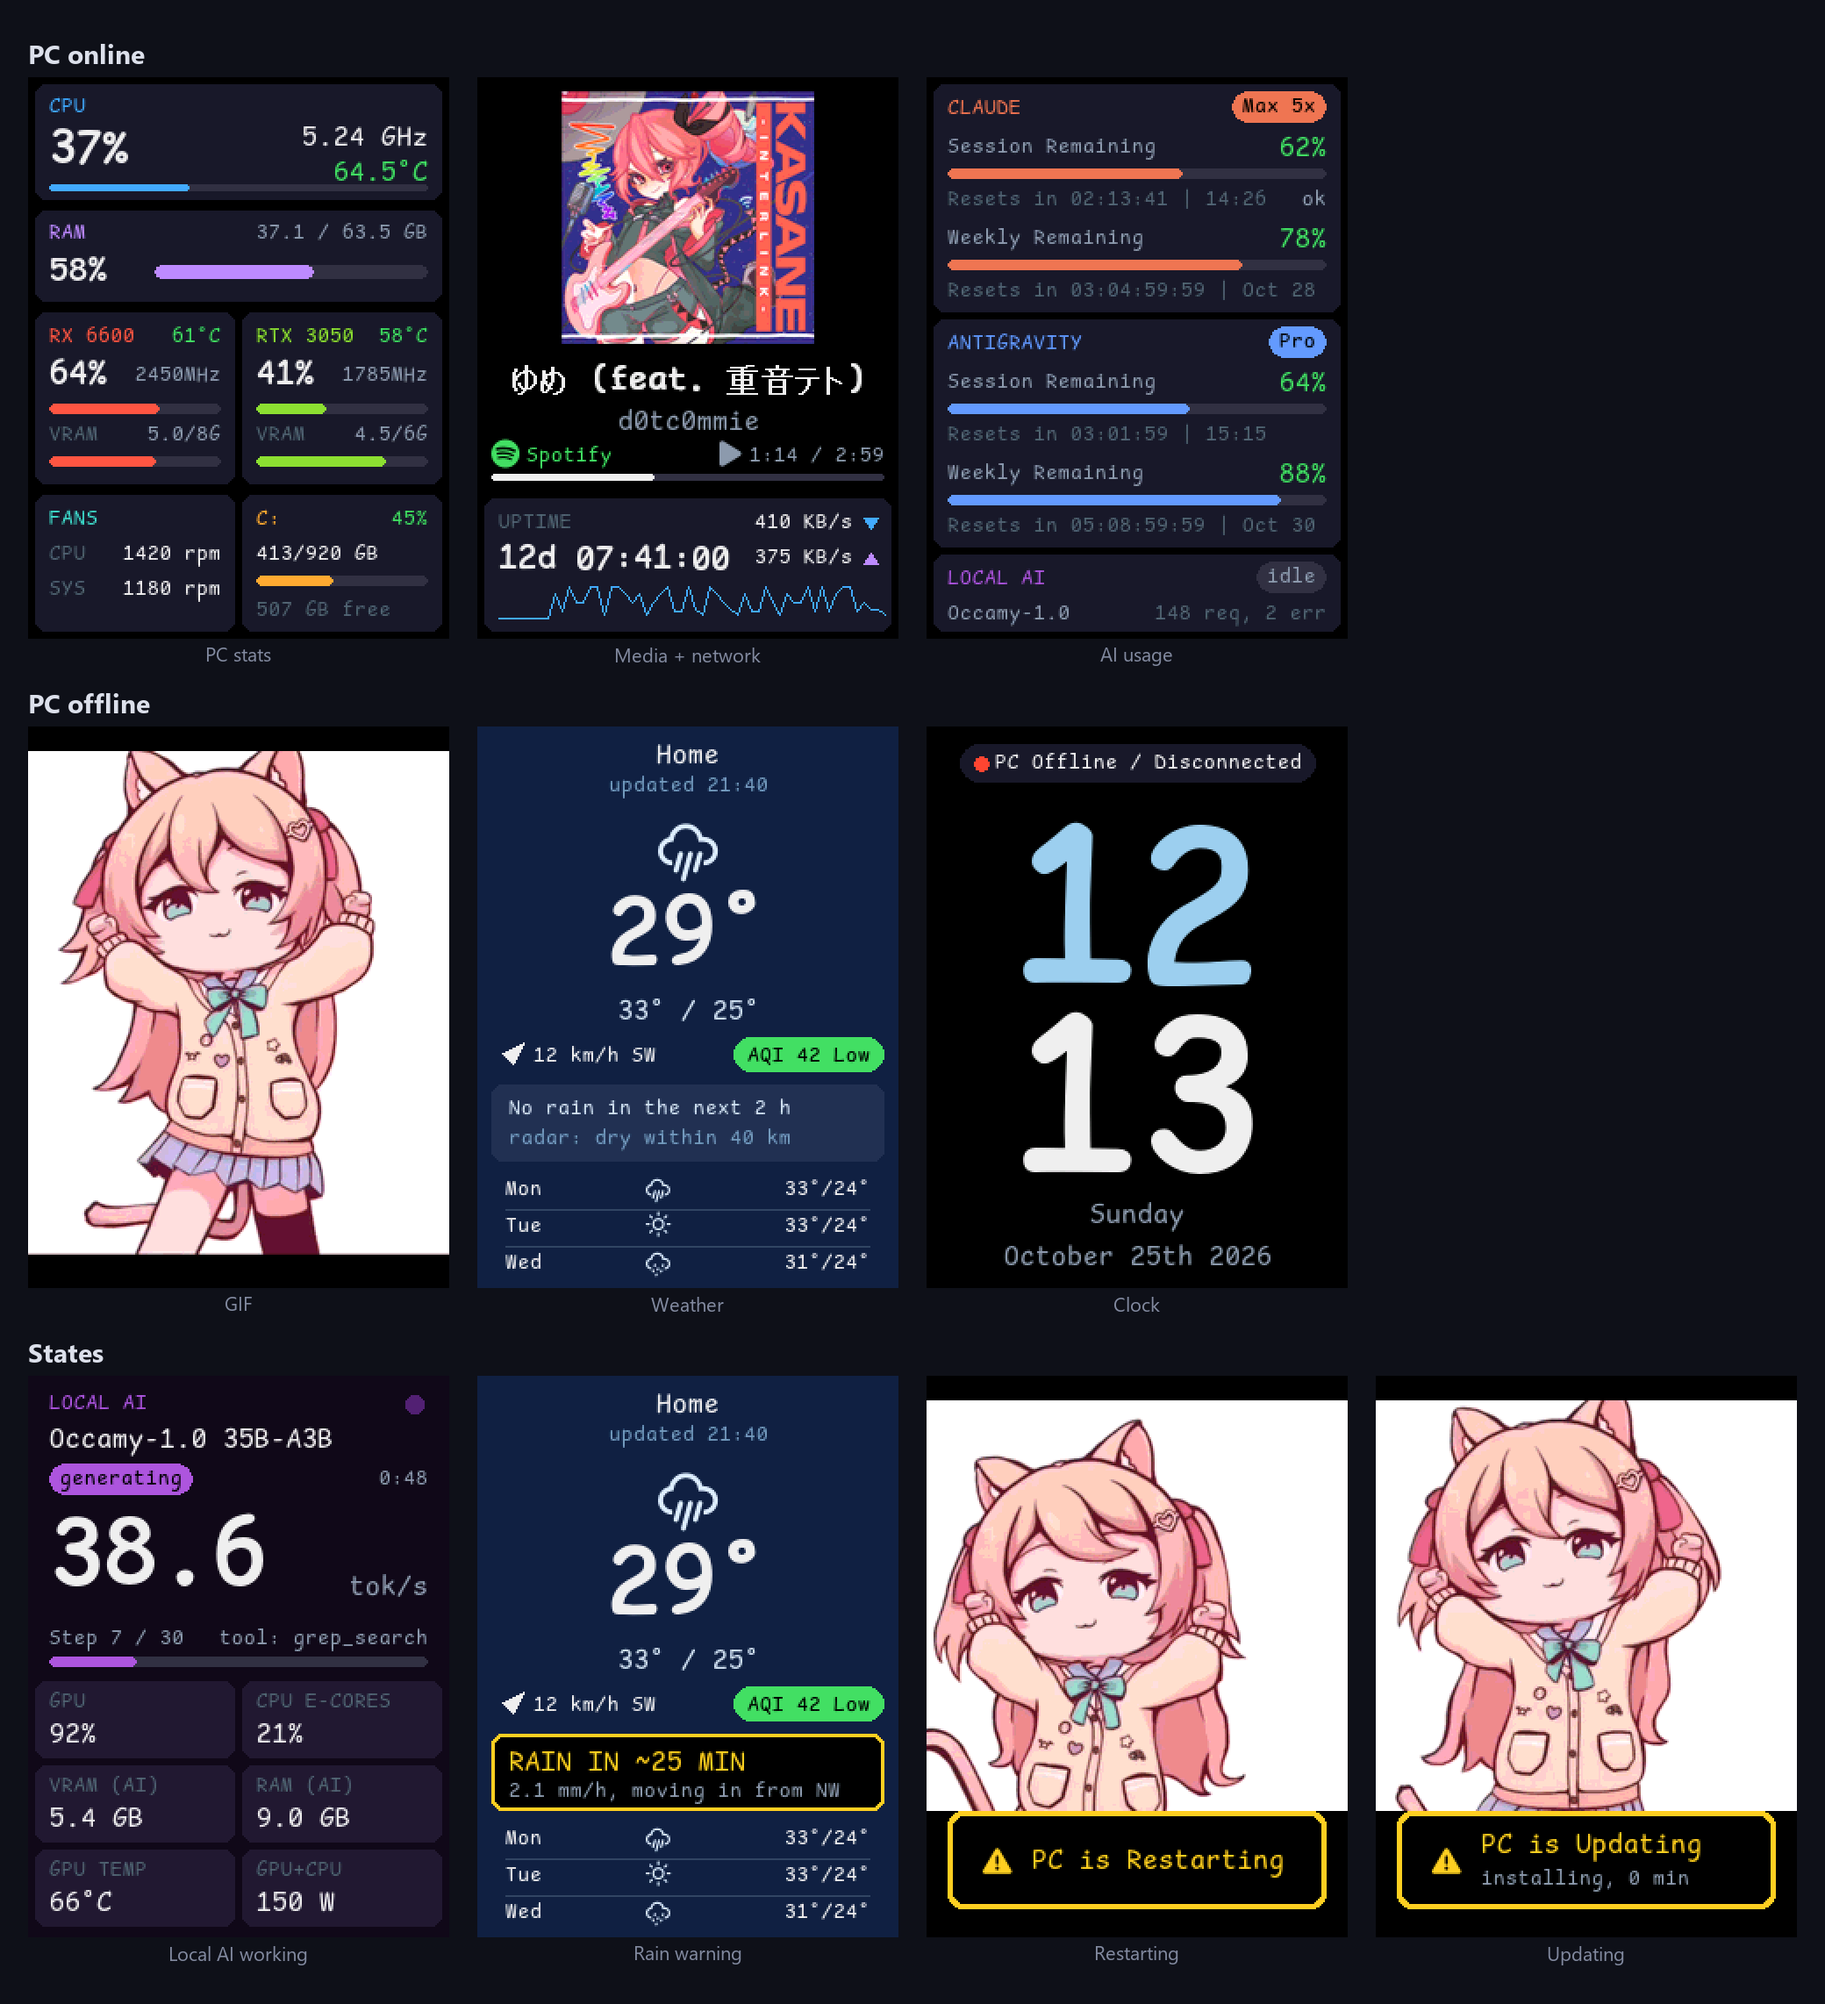
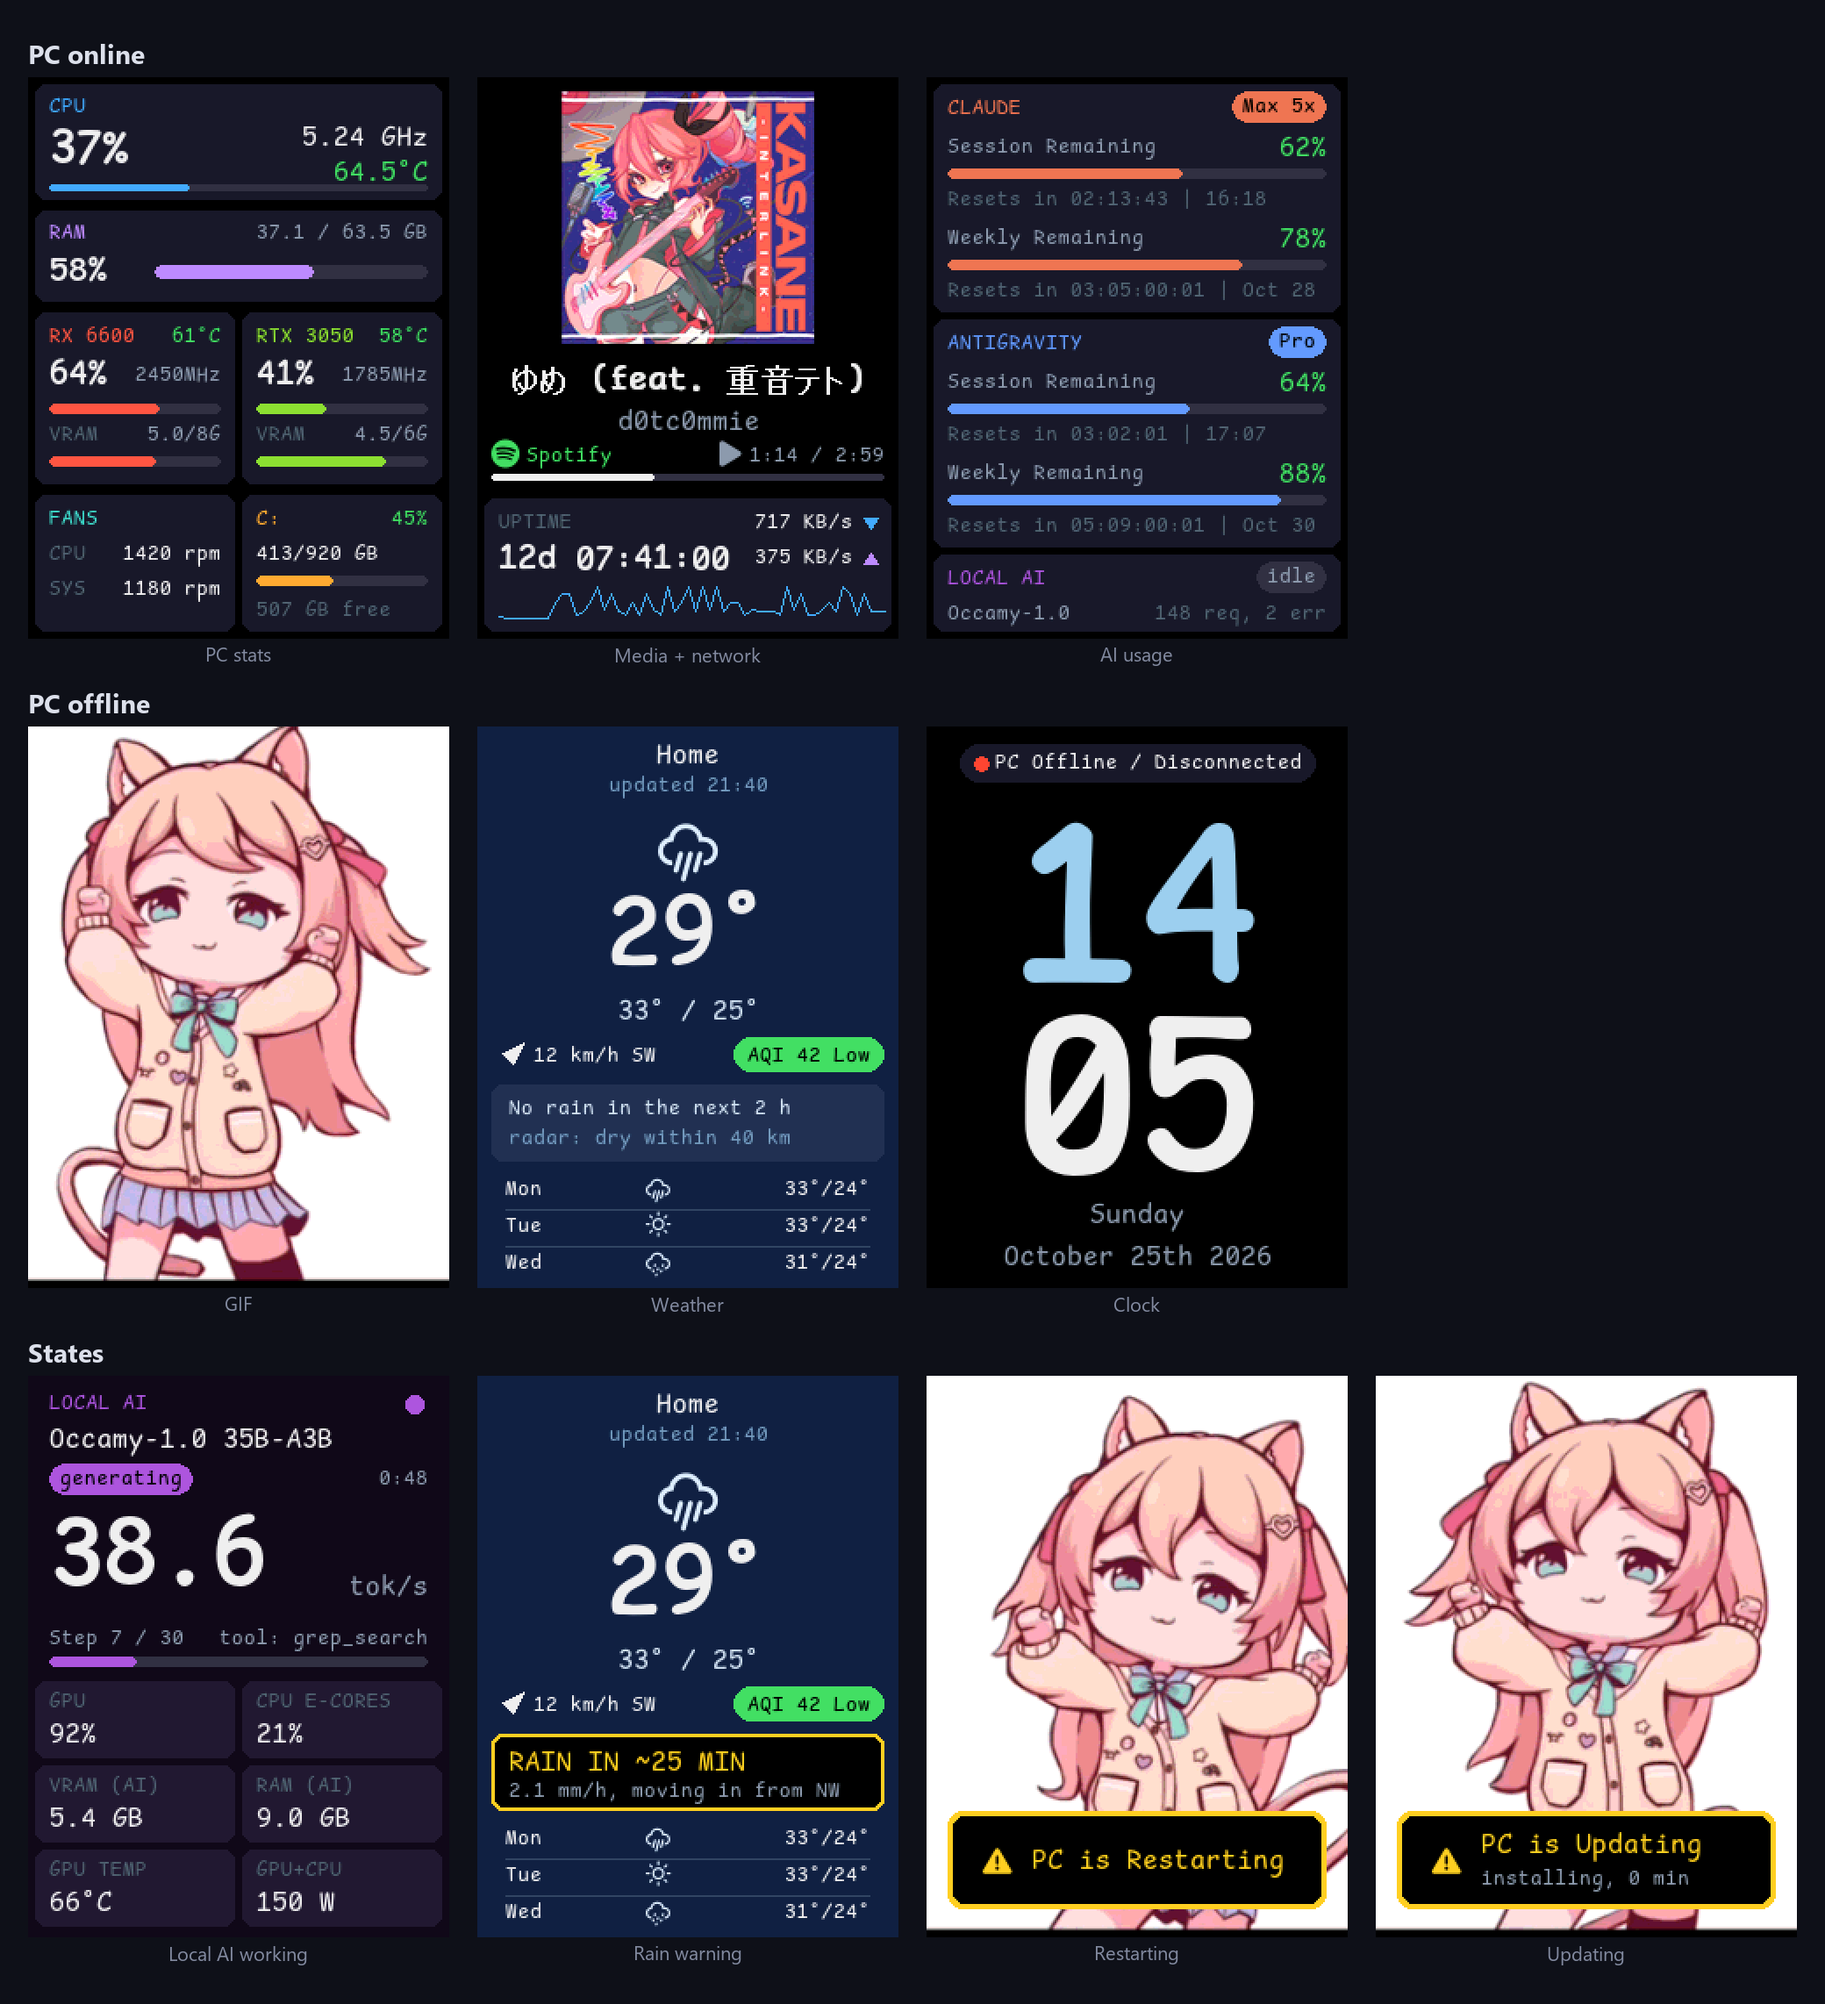
docs: recapture screens (full-height GIF, overlay box, no pace marker); LED table and pcsim in README
Assisted by Claude Code

diff --git a/README.md b/README.md
@@ -39,7 +39,7 @@ Each panel shows a set of faces and picks one from the PC's state:
 
 | Panel | PC on | PC off / asleep | Restarting / updating |
 |---|---|---|---|
-| 1 | PC stats: CPU, RAM, both GPUs, fans, C: | GIF | GIF with a "PC is Restarting" / "PC is Updating" box |
+| 1 | PC stats: CPU, RAM, both GPUs, fans, C: | GIF, scaled to fill the screen height | GIF with a "PC is Restarting" / "PC is Updating" box on top |
 | 2 | Media: cover art, title, artist, player, progress; uptime and network | Weather: now, AQI, 2-hour rain nowcast, 3-day forecast | Weather |
 | 3 | AI usage: Claude and Antigravity quota left, local AI; full-screen local AI face while the model is working | Clock | Clock with the restart/update state |
 
@@ -213,9 +213,15 @@ Other behaviour:
   against the brief USB dropout at power-on. The backlights are meant to
   turn off when the PC sleeps or shuts down (not yet tested on
   `carrier_idf`).
-- **Status LED** (GPIO2, PWM): solid = PC on, slow blink = asleep/off,
-  short blip every 2 s = no USB host yet. `led <0-100>` is perceptual
-  brightness, capped at 35% duty.
+- **Status LED** (GPIO2, PWM). `led <0-100>` is perceptual brightness,
+  capped at 35% duty.
+
+  | LED | Means |
+  |---|---|
+  | Quick pulses, 100 ms | Loading: the board is booting, or the PC is on but its stats have not arrived yet |
+  | Solid | Board and PC online |
+  | Quick pulses, 200 ms | PC restarting or updating |
+  | Slow breathing (3 s fade in and out) | PC asleep or off |
 
 ### Commands
 
@@ -227,6 +233,7 @@ One per line on the USB CDC console or the CH343 UART:
 | `view <1\|2\|3> <pc\|media\|ai\|gif\|dash\|status\|stats\|metrics>` | What a panel shows (saved) |
 | `face <1\|2\|3> <auto\|pc\|gif\|restart\|update\|media\|weather\|ai\|localai\|clock>` | Force one face, for testing and screenshots (not saved) |
 | `shot <1\|2\|3>` | Screenshot of a panel, streamed as base64 on the CDC port |
+| `pcsim <on\|off\|auto>` | Pretend the PC is on or off (LED, faces, backlights), for testing |
 | `door <1-4> [ms]`, `reset` | Press a door button; pulse the motherboard reset |
 | `wake [force \| mac <AA:BB:..>]`, `power <sleep\|hibernate\|restart\|shutdown>` | Wake-on-LAN; power commands over USB |
 | `going <restart\|shutdown\|update_restart\|update_shutdown\|sleep\|clear>` | Tell the board what the PC is about to do |
